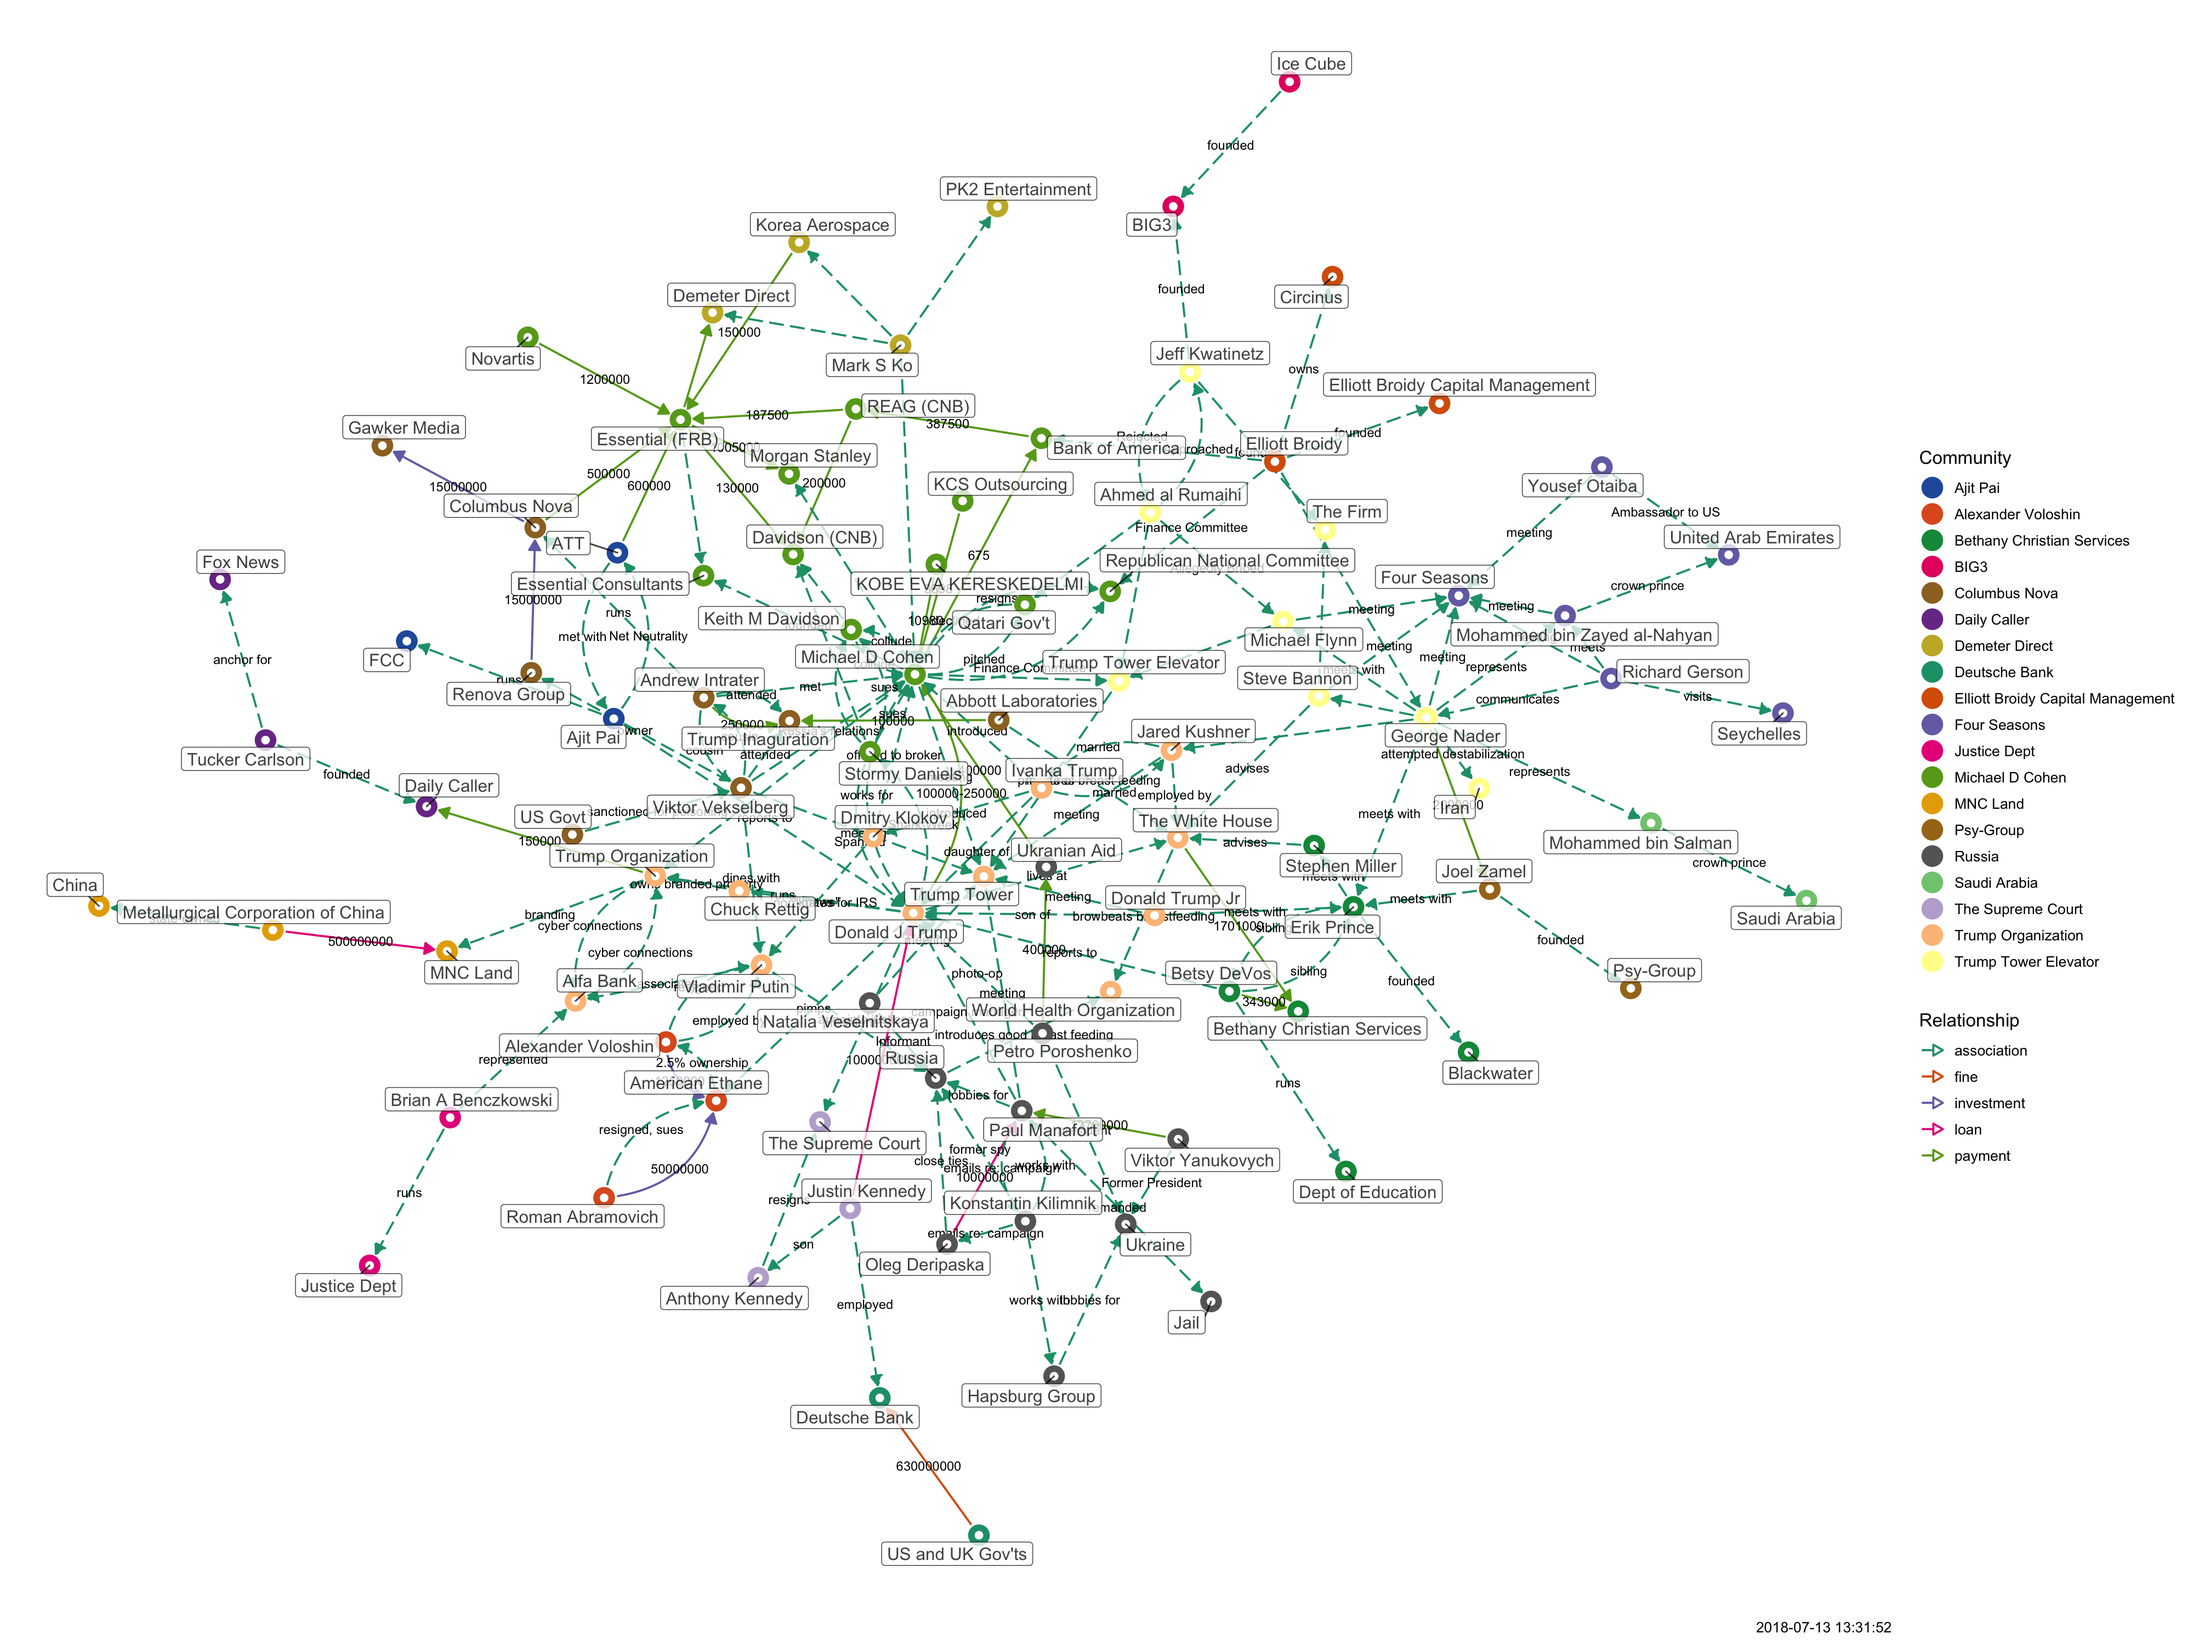
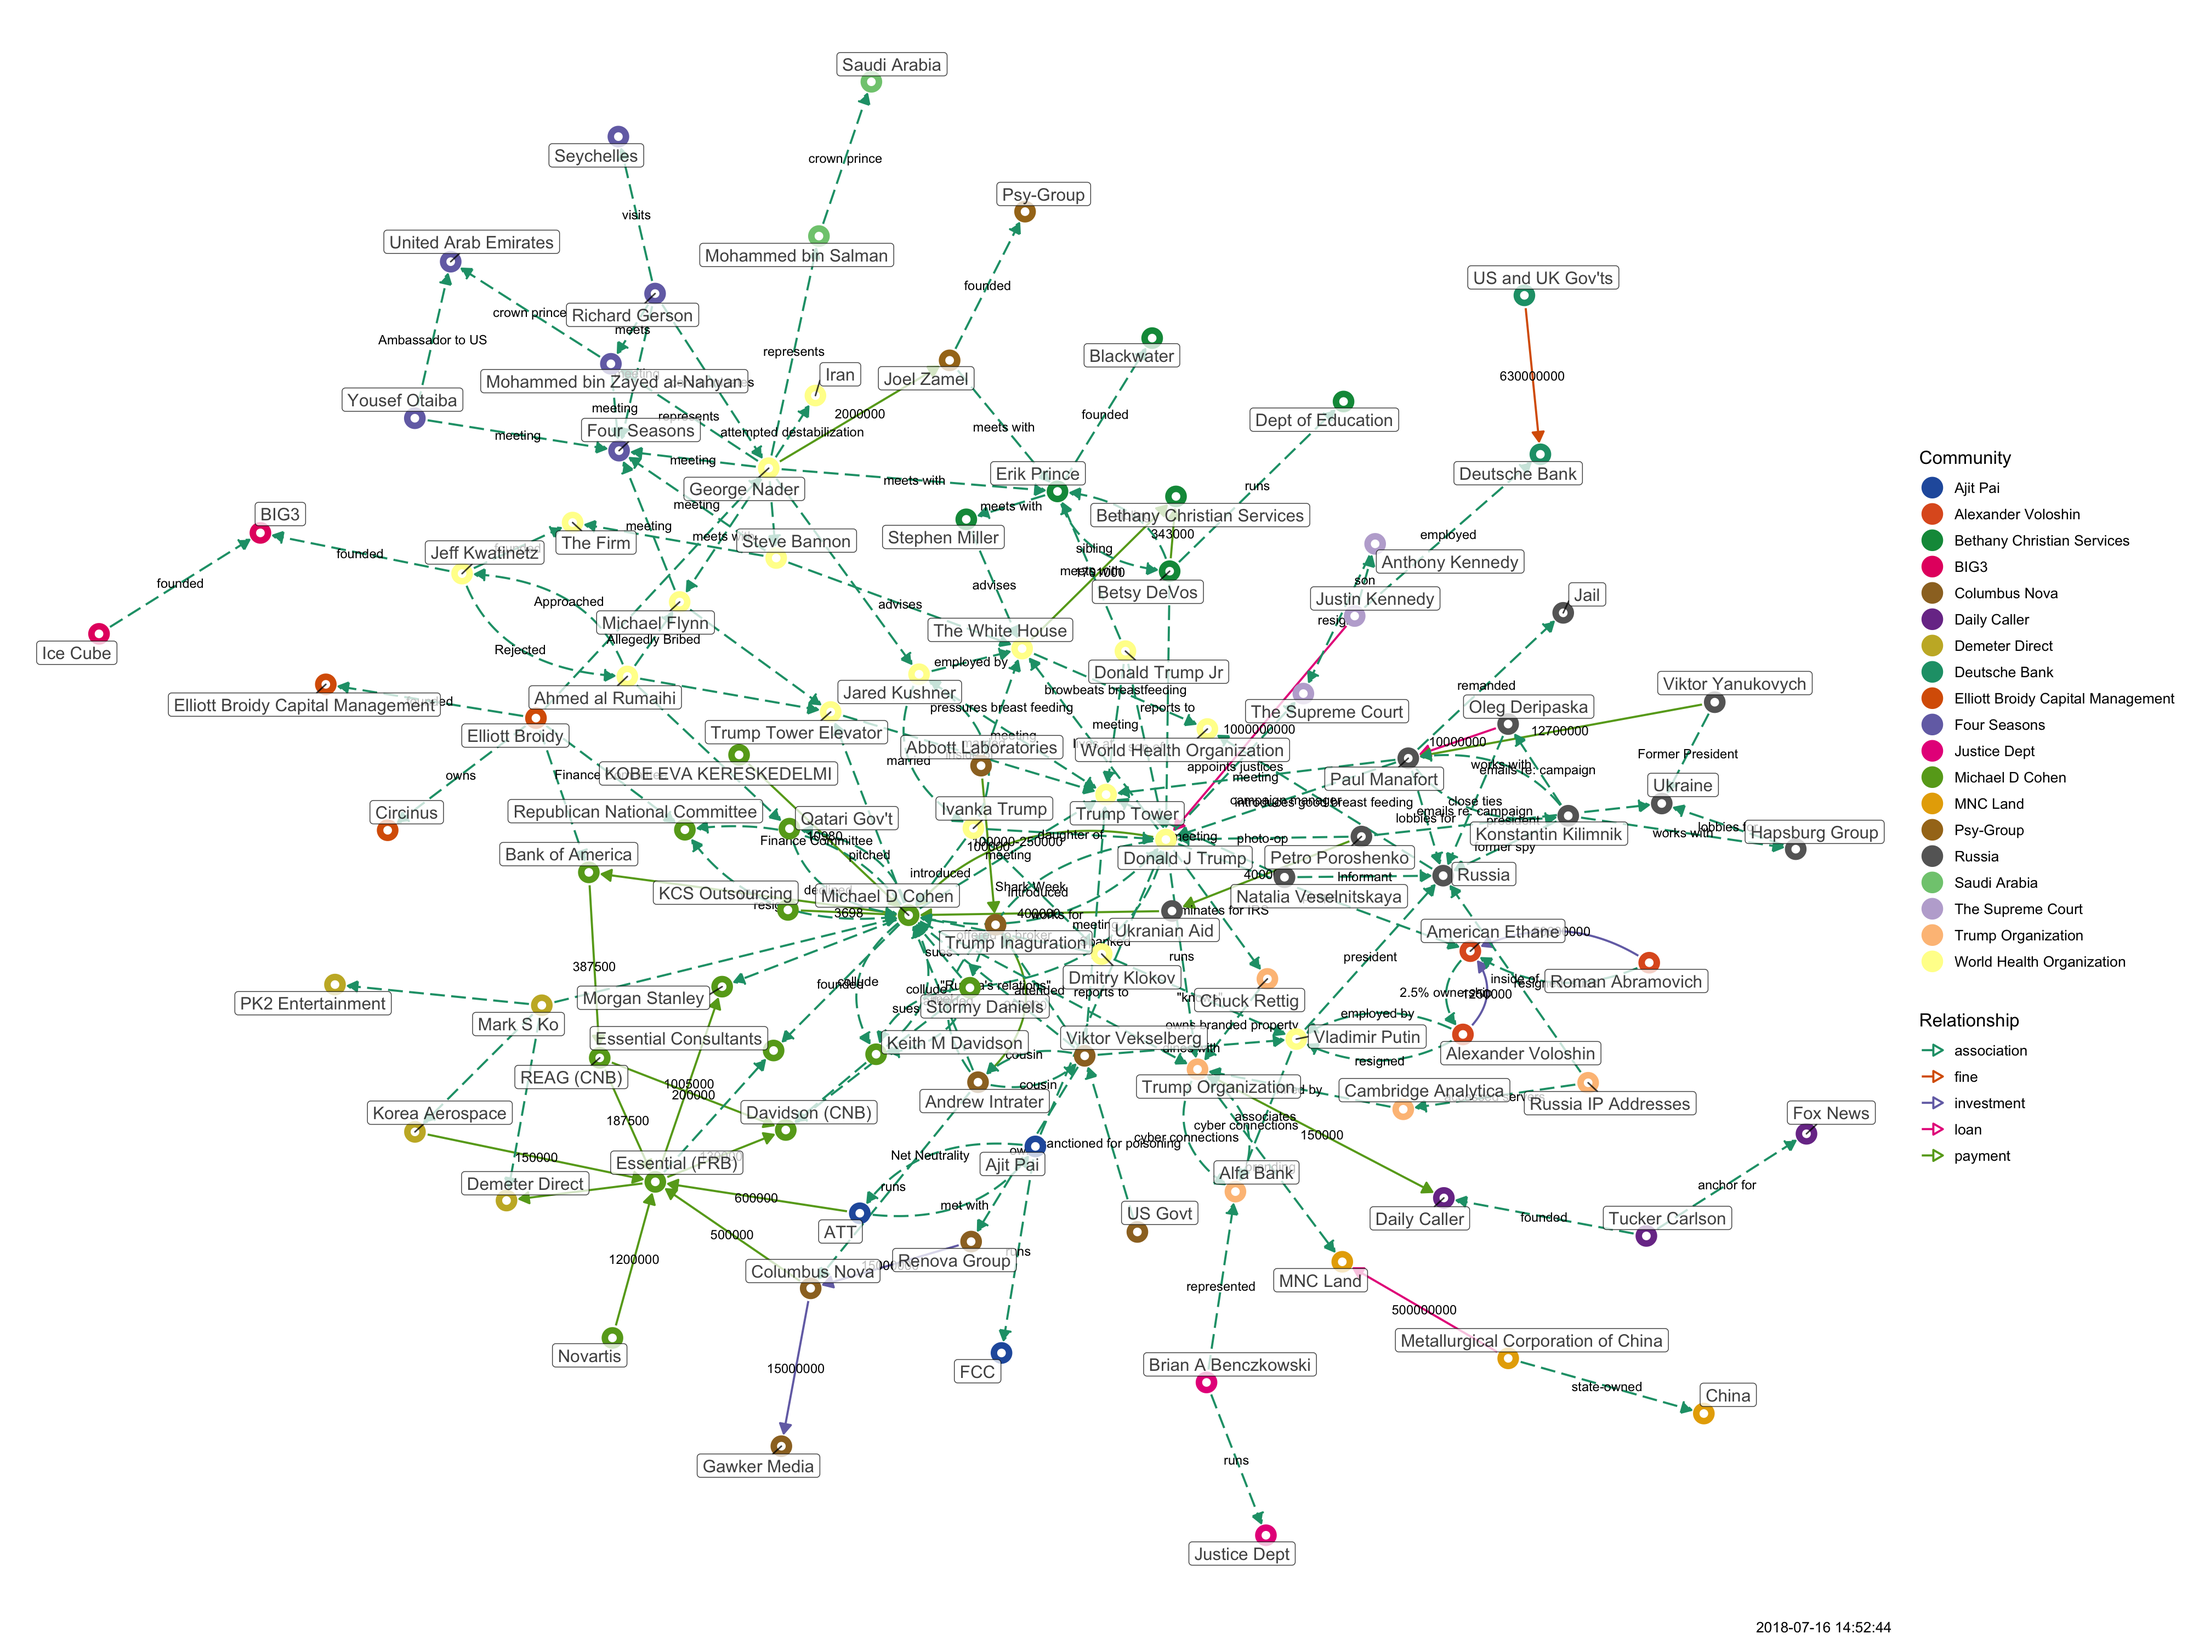
updated

diff --git a/docs/tangled-d3.html b/docs/tangled-d3.html
@@ -1143,11 +1143,11 @@ return function(){for(var n=0,e=0;e<t;++e)n+=Math.random();return n}},um=functio
 </head>
 <body style="background-color: white;">
 <div id="htmlwidget_container">
-<div id="htmlwidget-88a6978ed6ece8a768ba" class="forceNetwork html-widget" style="width:960px;height:500px;">
+<div id="htmlwidget-9a515a9144e47c5b4ba3" class="forceNetwork html-widget" style="width:960px;height:500px;">
 
 </div>
 </div>
-<script type="application/json" data-for="htmlwidget-88a6978ed6ece8a768ba">{"x":{"links":{"source":[0,1,2,3,4,5,6,6,7,8,8,8,9,10,11,12,13,14,15,16,17,18,19,19,20,21,22,23,24,25,26,8,15,2,2,27,2,27,27,2,28,15,29,30,30,27,31,31,31,31,15,7,7,30,15,15,32,32,32,32,7,15,33,34,34,35,36,35,35,37,34,34,38,38,38,3,37,31,9,9,39,39,40,40,15,41,42,42,9,43,44,45,9,9,46,47,45,48,44,9,9,43,45,5,5,5,23,14,18,18,15,27,27,49,50,50,50,50,9,47,33,37,51,51,40,40,52,52,30,30,15,29,53,54,53,55,56,55,53,55,55,43,39,57,57,26,17,55,53,7,58,15,59,10,10,7,0,22,60,7,1,1,61,21,62,62,56,63,23],"target":[64,61,64,8,19,65,8,66,15,67,68,69,44,7,15,15,8,70,4,8,55,24,67,8,6,61,65,71,15,72,55,73,73,6,15,20,27,2,64,64,27,7,67,67,29,56,74,75,76,4,69,22,30,7,23,74,68,77,15,13,23,49,49,49,35,34,78,79,78,79,41,33,3,7,80,38,22,9,37,39,22,40,39,7,41,15,71,81,45,45,45,82,47,46,83,84,48,22,85,33,86,7,5,45,87,7,70,88,7,89,90,90,15,90,91,47,9,92,92,92,92,92,92,84,15,52,15,56,29,15,29,15,54,89,55,60,60,7,60,93,90,90,90,90,60,89,60,53,17,58,23,74,94,59,72,94,22,95,95,61,56,56,1,61,63,96,63,23,63],"colour":["red","blue","red","red","red","red","red","blue","red","red","red","red","red","blue","red","red","red","blue","red","red","blue","red","red","red","blue","blue","red","red","red","blue","red","blue","blue","blue","blue","blue","blue","blue","blue","blue","blue","blue","blue","blue","blue","blue","blue","blue","blue","blue","blue","blue","blue","blue","blue","blue","blue","blue","blue","blue","blue","blue","blue","blue","blue","blue","blue","blue","blue","blue","blue","blue","blue","blue","blue","blue","blue","blue","blue","blue","blue","blue","blue","blue","blue","blue","blue","blue","blue","blue","blue","blue","blue","blue","blue","blue","blue","blue","blue","blue","blue","blue","blue","blue","blue","blue","blue","blue","blue","blue","blue","blue","blue","blue","blue","blue","blue","blue","blue","blue","blue","blue","blue","blue","blue","blue","blue","blue","blue","blue","blue","blue","blue","blue","blue","blue","blue","blue","blue","blue","blue","blue","blue","blue","blue","blue","blue","blue","blue","blue","blue","blue","blue","blue","blue","blue","blue","blue","blue","blue","blue","blue","blue","blue","blue","blue","blue","blue","blue"]},"nodes":{"name":["Abbott Laboratories","Alexander Voloshin","Andrew Intrater","ATT","Bank of America","Betsy DeVos","Columbus Nova","Donald J Trump","Essential (FRB)","George Nader","Justin Kennedy","KCS Outsourcing","KOBE EVA KERESKEDELMI","Korea Aerospace","Metallurgical Corporation of China","Michael D Cohen","Novartis","Oleg Deripaska","Petro Poroshenko","REAG (CNB)","Renova Group","Roman Abramovich","The White House","Trump Organization","Ukranian Aid","US and UK Gov'ts","Viktor Yanukovych","Viktor Vekselberg","US Govt","Keith M Davidson","Stormy Daniels","Elliott Broidy","Mark S Ko","Michael Flynn","Ahmed al Rumaihi","Jeff Kwatinetz","Ice Cube","Steve Bannon","Ajit Pai","Jared Kushner","Ivanka Trump","Qatari Gov't","Tucker Carlson","Donald Trump Jr","Joel Zamel","Erik Prince","Mohammed bin Salman","Mohammed bin Zayed al-Nahyan","Stephen Miller","Trump Tower Elevator","Richard Gerson","Yousef Otaiba","Dmitry Klokov","Konstantin Kilimnik","Hapsburg Group","Paul Manafort","Vladimir Putin","Natalia Veselnitskaya","Chuck Rettig","Anthony Kennedy","Russia","American Ethane","Brian A Benczkowski","Alfa Bank","Trump Inaguration","Bethany Christian Services","Gawker Media","Davidson (CNB)","Demeter Direct","Morgan Stanley","MNC Land","Daily Caller","Deutsche Bank","Essential Consultants","Republican National Committee","Elliott Broidy Capital Management","Circinus","PK2 Entertainment","BIG3","The Firm","FCC","Fox News","Blackwater","Saudi Arabia","United Arab Emirates","Psy-Group","Iran","Dept of Education","China","Ukraine","Trump Tower","Seychelles","Four Seasons","Jail","The Supreme Court","World Health Organization","Justice Dept"],"group":["4","13","4","11","1","7","4","2","1","5","12","1","1","8","9","1","1","3","3","1","4","13","2","2","3","19","3","4","4","1","1","14","8","5","5","5","18","5","11","2","2","1","10","2","15","7","16","6","7","5","6","6","2","3","3","3","2","3","2","12","3","13","17","2","4","7","4","1","8","1","9","10","19","1","1","14","14","8","18","5","11","10","7","16","6","15","5","7","9","3","2","6","6","3","12","2","17"]},"options":{"NodeID":"name","Group":"group","colourScale":"d3.scaleOrdinal(d3.schemeCategory20);","fontSize":20,"fontFamily":"serif","clickTextSize":50,"linkDistance":50,"linkWidth":"function(d) { return Math.sqrt(d.value); }","charge":-100,"opacity":1,"zoom":true,"legend":false,"arrows":false,"nodesize":false,"radiusCalculation":" Math.sqrt(d.nodesize)+6","bounded":false,"opacityNoHover":1,"clickAction":null}},"evals":[],"jsHooks":[]}</script>
-<script type="application/htmlwidget-sizing" data-for="htmlwidget-88a6978ed6ece8a768ba">{"viewer":{"width":450,"height":350,"padding":10,"fill":true},"browser":{"width":960,"height":500,"padding":10,"fill":true}}</script>
+<script type="application/json" data-for="htmlwidget-9a515a9144e47c5b4ba3">{"x":{"links":{"source":[0,1,2,3,4,5,6,6,7,8,8,8,9,10,11,12,13,14,15,16,17,18,19,19,20,21,22,23,24,25,26,8,15,2,2,27,2,27,27,2,28,15,29,30,30,27,31,31,31,31,15,7,7,30,15,15,32,32,32,32,7,15,33,34,34,35,36,35,35,37,34,34,38,38,38,3,37,31,9,9,39,39,40,40,15,41,42,42,9,43,44,45,9,9,46,47,45,48,44,9,9,43,45,5,5,5,23,14,18,18,15,27,27,49,50,50,50,50,9,47,33,37,51,51,40,40,52,52,30,30,15,29,53,54,53,55,56,55,53,55,55,43,39,57,57,26,17,55,53,7,58,15,59,10,10,7,0,22,60,7,1,1,61,21,62,62,56,63,23,64,65,65],"target":[66,61,66,8,19,67,8,68,15,69,70,71,44,7,15,15,8,72,4,8,55,24,69,8,6,61,67,73,15,74,55,75,75,6,15,20,27,2,66,66,27,7,69,69,29,56,76,77,78,4,71,22,30,7,23,76,70,79,15,13,23,49,49,49,35,34,80,81,80,81,41,33,3,7,82,38,22,9,37,39,22,40,39,7,41,15,73,83,45,45,45,84,47,46,85,86,48,22,87,33,88,7,5,45,89,7,72,90,7,91,92,92,15,92,93,47,9,94,94,94,94,94,94,86,15,52,15,56,29,15,29,15,54,91,55,60,60,7,60,95,92,92,92,92,60,91,60,53,17,58,23,76,96,59,74,96,22,97,97,61,56,56,1,61,63,98,63,23,63,23,64,60],"colour":["red","blue","red","red","red","red","red","blue","red","red","red","red","red","blue","red","red","red","blue","red","red","blue","red","red","red","blue","blue","red","red","red","blue","red","blue","blue","blue","blue","blue","blue","blue","blue","blue","blue","blue","blue","blue","blue","blue","blue","blue","blue","blue","blue","blue","blue","blue","blue","blue","blue","blue","blue","blue","blue","blue","blue","blue","blue","blue","blue","blue","blue","blue","blue","blue","blue","blue","blue","blue","blue","blue","blue","blue","blue","blue","blue","blue","blue","blue","blue","blue","blue","blue","blue","blue","blue","blue","blue","blue","blue","blue","blue","blue","blue","blue","blue","blue","blue","blue","blue","blue","blue","blue","blue","blue","blue","blue","blue","blue","blue","blue","blue","blue","blue","blue","blue","blue","blue","blue","blue","blue","blue","blue","blue","blue","blue","blue","blue","blue","blue","blue","blue","blue","blue","blue","blue","blue","blue","blue","blue","blue","blue","blue","blue","blue","blue","blue","blue","blue","blue","blue","blue","blue","blue","blue","blue","blue","blue","blue","blue","blue","blue","blue","blue","blue"]},"nodes":{"name":["Abbott Laboratories","Alexander Voloshin","Andrew Intrater","ATT","Bank of America","Betsy DeVos","Columbus Nova","Donald J Trump","Essential (FRB)","George Nader","Justin Kennedy","KCS Outsourcing","KOBE EVA KERESKEDELMI","Korea Aerospace","Metallurgical Corporation of China","Michael D Cohen","Novartis","Oleg Deripaska","Petro Poroshenko","REAG (CNB)","Renova Group","Roman Abramovich","The White House","Trump Organization","Ukranian Aid","US and UK Gov'ts","Viktor Yanukovych","Viktor Vekselberg","US Govt","Keith M Davidson","Stormy Daniels","Elliott Broidy","Mark S Ko","Michael Flynn","Ahmed al Rumaihi","Jeff Kwatinetz","Ice Cube","Steve Bannon","Ajit Pai","Jared Kushner","Ivanka Trump","Qatari Gov't","Tucker Carlson","Donald Trump Jr","Joel Zamel","Erik Prince","Mohammed bin Salman","Mohammed bin Zayed al-Nahyan","Stephen Miller","Trump Tower Elevator","Richard Gerson","Yousef Otaiba","Dmitry Klokov","Konstantin Kilimnik","Hapsburg Group","Paul Manafort","Vladimir Putin","Natalia Veselnitskaya","Chuck Rettig","Anthony Kennedy","Russia","American Ethane","Brian A Benczkowski","Alfa Bank","Cambridge Analytica","Russia IP Addresses","Trump Inaguration","Bethany Christian Services","Gawker Media","Davidson (CNB)","Demeter Direct","Morgan Stanley","MNC Land","Daily Caller","Deutsche Bank","Essential Consultants","Republican National Committee","Elliott Broidy Capital Management","Circinus","PK2 Entertainment","BIG3","The Firm","FCC","Fox News","Blackwater","Saudi Arabia","United Arab Emirates","Psy-Group","Iran","Dept of Education","China","Ukraine","Trump Tower","Seychelles","Four Seasons","Jail","The Supreme Court","World Health Organization","Justice Dept"],"group":["4","13","4","11","2","6","4","1","2","1","12","2","2","8","10","2","2","3","3","2","4","13","1","7","3","19","3","4","4","2","2","14","8","1","1","1","18","1","11","1","1","2","9","1","15","6","16","5","6","1","5","5","1","3","3","3","1","3","7","12","3","13","17","7","7","7","4","6","4","2","8","2","10","9","19","2","2","14","14","8","18","1","11","9","6","16","5","15","1","6","10","3","1","5","5","3","12","1","17"]},"options":{"NodeID":"name","Group":"group","colourScale":"d3.scaleOrdinal(d3.schemeCategory20);","fontSize":20,"fontFamily":"serif","clickTextSize":50,"linkDistance":50,"linkWidth":"function(d) { return Math.sqrt(d.value); }","charge":-100,"opacity":1,"zoom":true,"legend":false,"arrows":false,"nodesize":false,"radiusCalculation":" Math.sqrt(d.nodesize)+6","bounded":false,"opacityNoHover":1,"clickAction":null}},"evals":[],"jsHooks":[]}</script>
+<script type="application/htmlwidget-sizing" data-for="htmlwidget-9a515a9144e47c5b4ba3">{"viewer":{"width":450,"height":350,"padding":10,"fill":true},"browser":{"width":960,"height":500,"padding":10,"fill":true}}</script>
 </body>
 </html>
